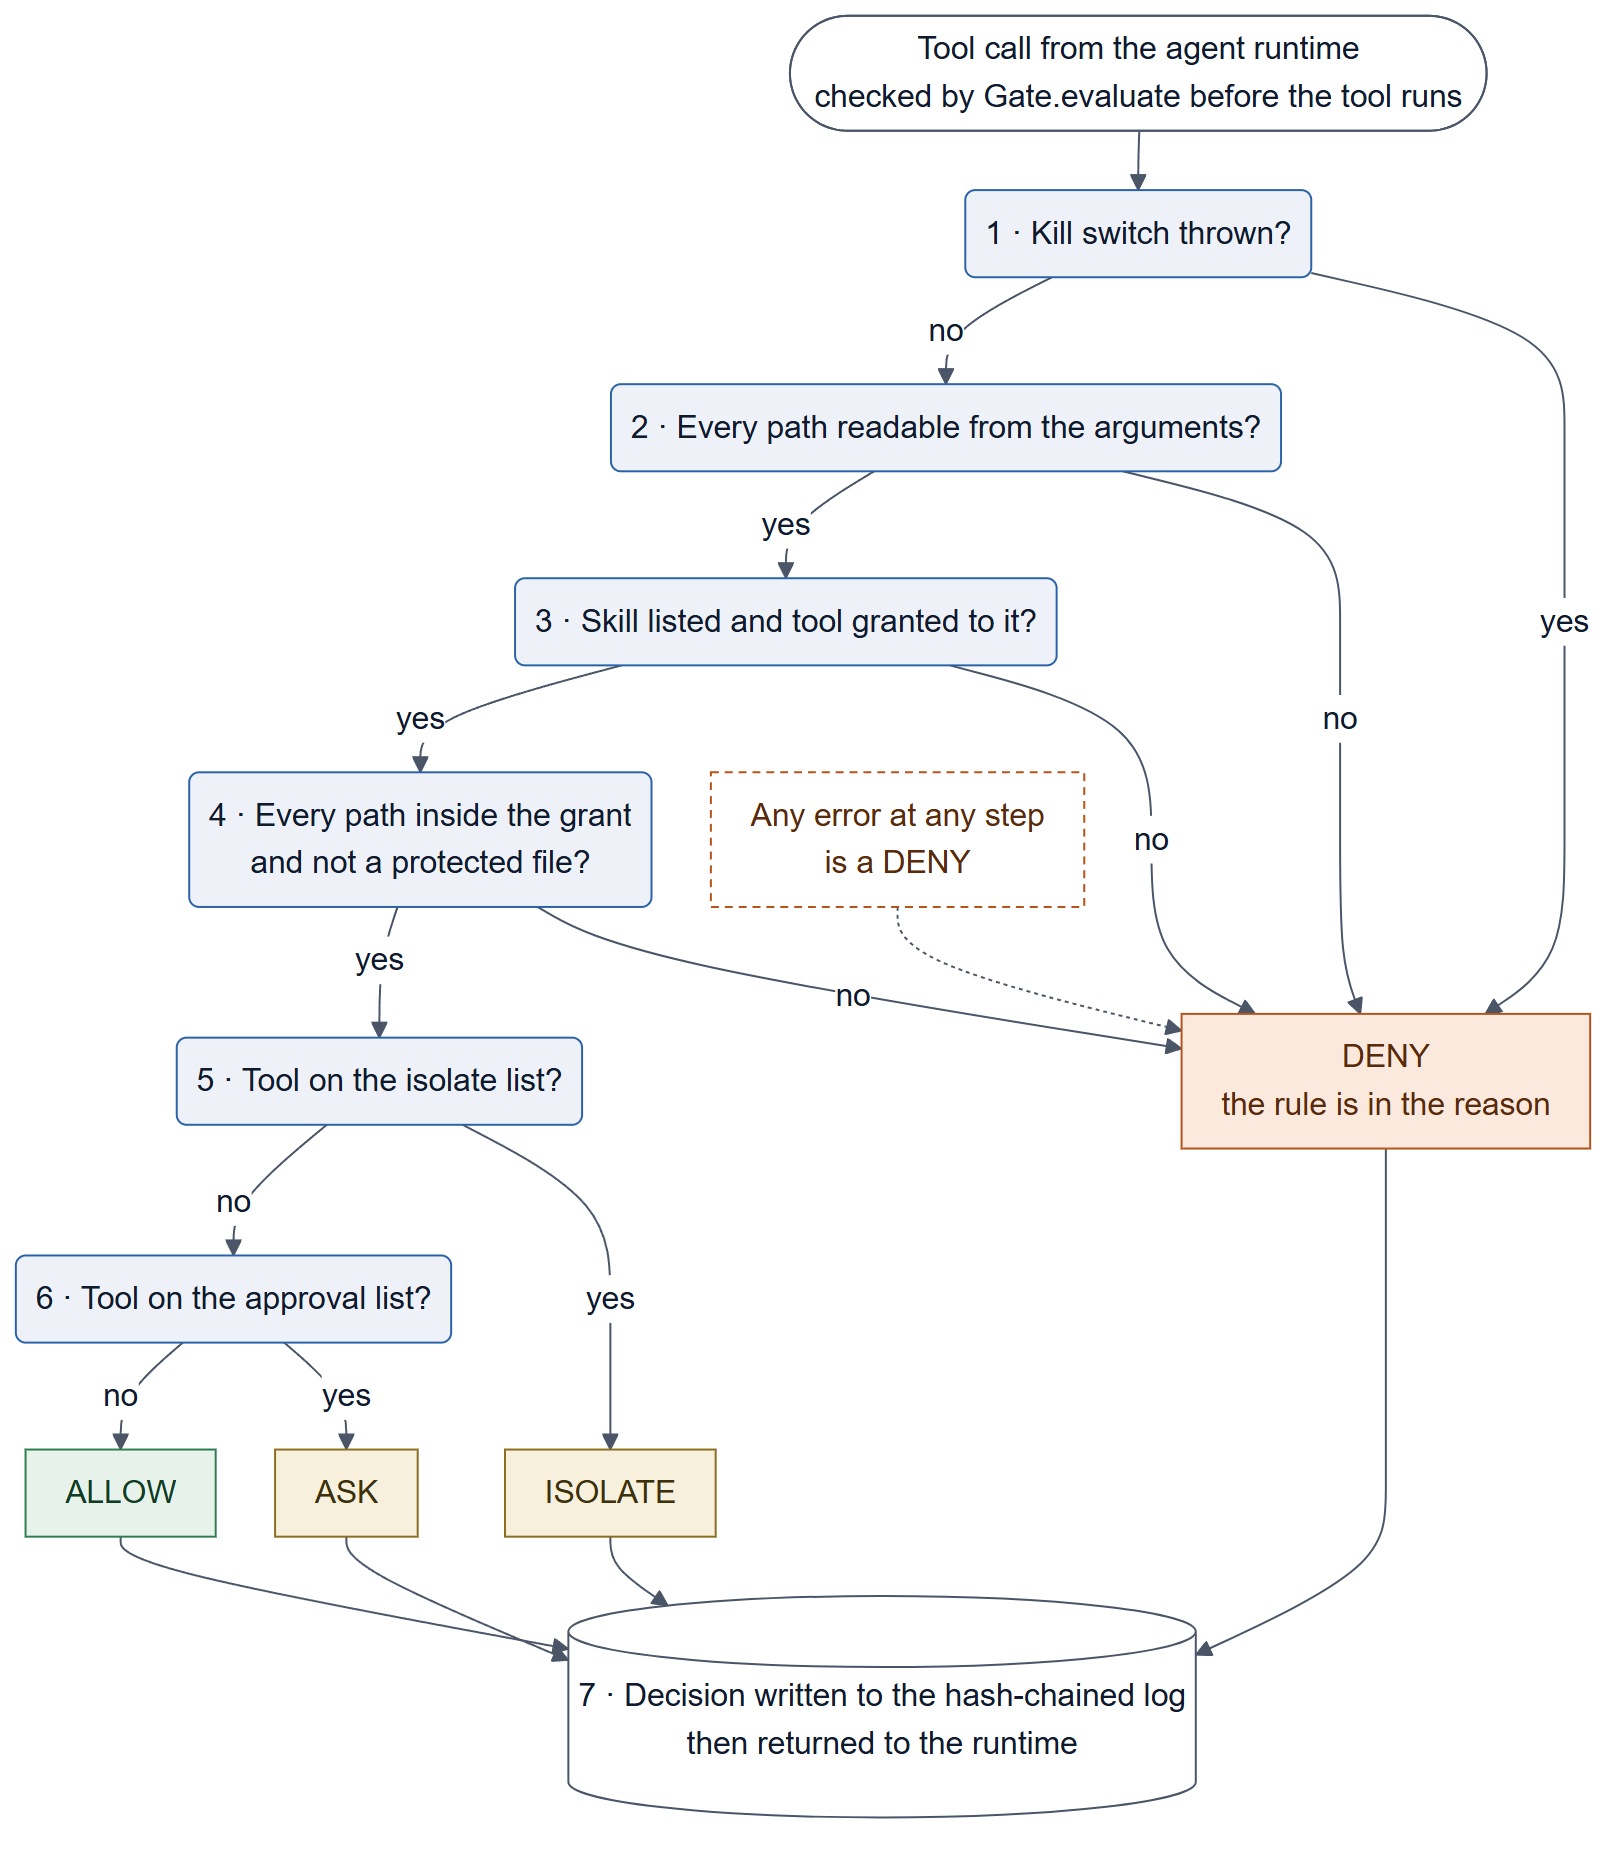
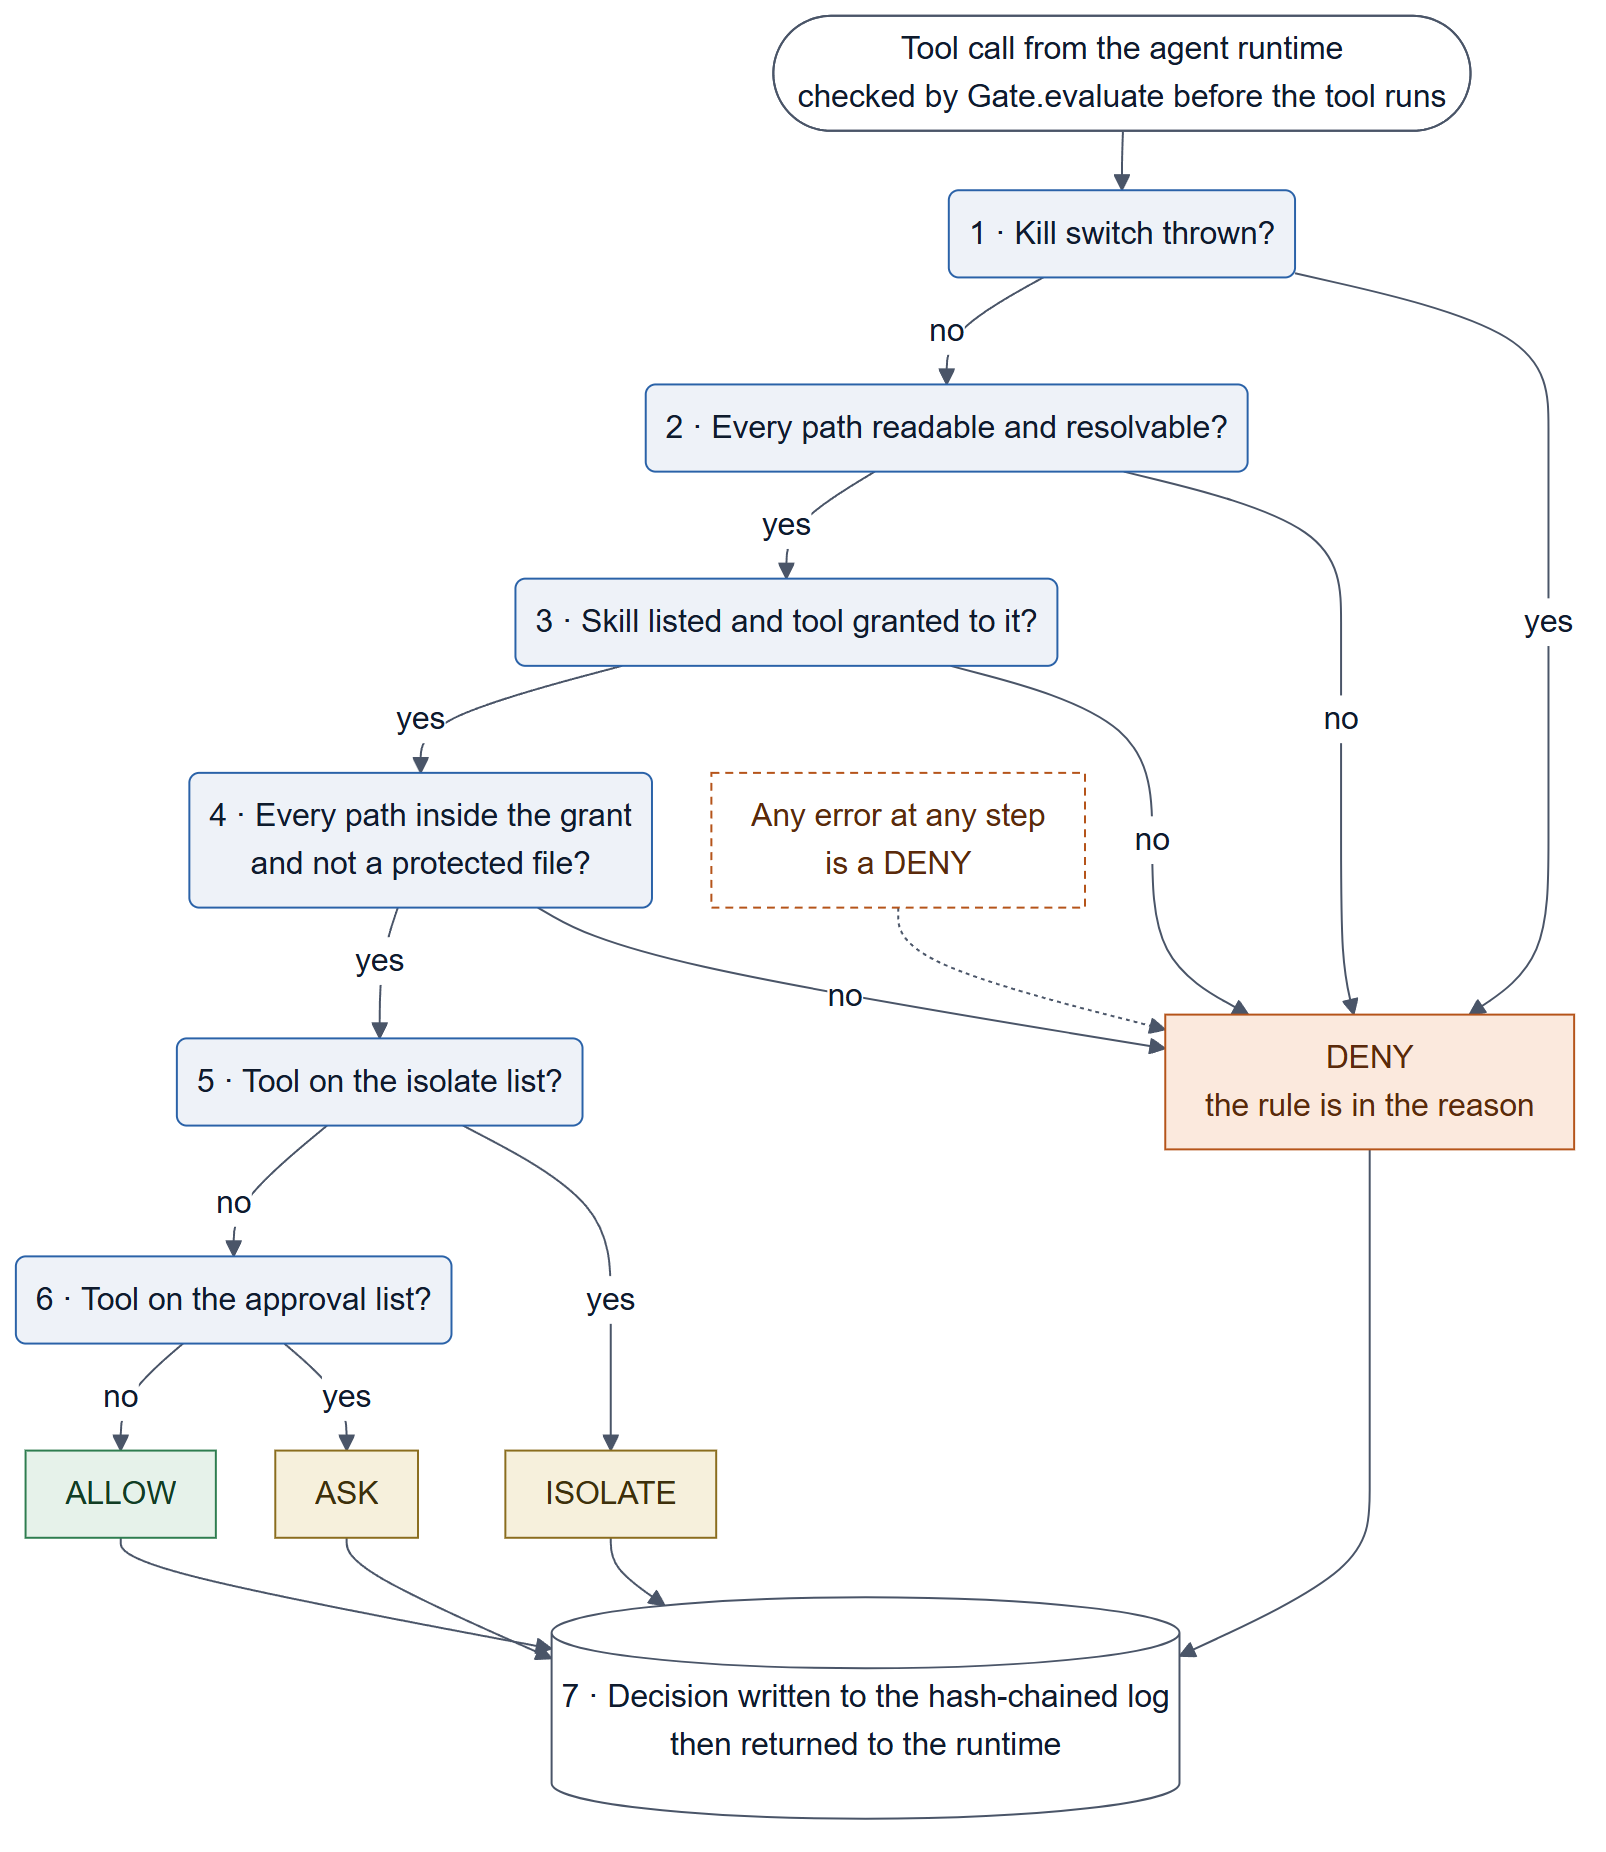
README: act on the diagram review
Independent review of 2b202e4 returned two blockers and nine nits.

Blockers:
- Figure 2 was 2368 px wide with 15 px capitals, unreadable at README
  width. It is redrawn top to bottom at the same scale as Figure 1.
- Figure 2 said ISOLATE "runs in a fresh microVM". It now says the task
  goes to isolation-layer, a research build whose stub door CI runs.

Also:
- Figure 2 shows ASK waiting for a person, and splits step 5 into 5a/5b.
- Figure 1 step 2 reads "readable and resolvable", since a relative path
  with no base folder is denied there.
- Each figure has a title, a takeaway and a key. The caption names three
  details Figure 1 leaves out: step 1 also guards the marker and the log,
  a lost log folder is a deny with no row, and the optional grant ledger.
- The README names the 34 go-red mutants, the CI recheck of the Proof
  counts, the observe to enforce move with the S12 numbers, and the grant
  ledger with its stated limit.
- tests/test_gate_boundary.py docstring no longer says the test stays red.

diff --git a/tests/test_gate_boundary.py b/tests/test_gate_boundary.py
@@ -3,10 +3,11 @@
 # box-side nonce (A6).
 """One call, three bindings: atoms records the gate decision, the box echoes atoms' ticket.
 
-test_siblings_pinned owns every presence and load check. The boundary test stays
-red until the three named misses clear; fixture problems fail with "fixture:"
-text instead. Clearing the misses in CI is a receipt contract, not a jailer
-proof: Actions cannot boot the box, so the real run is attached from the test box.
+test_siblings_pinned owns every presence and load check. The three named misses
+cleared at Step 8, and the boundary test now fails on any miss; fixture problems
+fail with "fixture:" text instead. Passing in CI is a receipt contract, not a
+jailer proof: Actions cannot boot the box, so the real run is attached from the
+test box.
 The chain helper below stands in for the harness until the harness exists.
 """
 

diff --git a/README.md b/README.md
@@ -19,16 +19,28 @@ written allowlist of tools and paths per skill. The decision is plain Python
 you can read, not a model, and it is written to a hash-chained log before the
 answer goes back.
 
+**Figure 1. How the gate decides one call.** Six checks in a fixed order, a
+deny at any failed check, and every verdict logged before the answer leaves.
+
 ![Gate decision path: six checks in order, each failure a DENY, every verdict logged][fig-decide]
 
-Read it top to bottom. The gate asks six questions in a fixed order and stops
-at the earliest answer that settles the call: a failed check is a deny, the
-isolate list gives isolate, and the approval list gives ask. A call that clears
-every check is allowed. Any error inside the gate is a deny. Every verdict is written to the
-hash-chained log before it goes back to the runtime. In enforce mode the
-runtime acts on the verdict. In observe mode the gate records the same verdict
-and blocks nothing, so a policy can be tuned on real traffic before it is
-enforced.
+Read it top to bottom. The gate stops at the earliest answer that settles the
+call: a failed check is a deny, the isolate list gives isolate, and the
+approval list gives ask. A call that clears every check is allowed. Any error
+inside the gate is a deny. In enforce mode the runtime acts on the verdict. In
+observe mode the gate records the same verdict and blocks nothing, so a policy
+can be tuned on real traffic before it is enforced.
+
+Key: blue is a check, orange is deny, green is allow, tan is ask or isolate.
+
+Three details the figure leaves out:
+
+- Step 1 also denies a call that aims at the kill switch marker or the log.
+- One deny carries no log row, on purpose: when the log folder itself is gone,
+  the gate denies rather than start a new chain quietly.
+- The figure shows the gate without the optional grant ledger. With it, a
+  ticket check runs before step 3, a bound approval receipt can turn an ask
+  into an allow, and a usage cap can turn an allow into a deny.
 
 [fig-decide]: assets/gate-decision.png
 
@@ -61,6 +73,13 @@ RESULT: PASS
 ```
 
 The run checks 19 expected outcomes and exits non-zero if any one fails.
+
+The tests test something. Each control the demo asserts has a mutant that
+removes it in a scratch copy and must turn its test red: `make hire-pins` runs
+all 34 in `demos/hire/mutants.yaml`. CI reruns the nine seeded scenarios on
+every push to main and every pull request, and fails if any count in the
+[Proof](#proof) section changes.
+
 What each step shows:
 
 | Step | What happens |
@@ -86,17 +105,23 @@ See [demos/hire/DEMO.md](demos/hire/DEMO.md) for the limits of the demo.
 
 ## How it fits with the other repos
 
-capability-gate is one of three public repos that work as one system:
+capability-gate is one of three public repos that work as one system.
+
+**Figure 2. Where the gate sits.** People set the policy, the gate decides
+before anything runs, and the decision log feeds the review that sets the next
+policy.
 
 ![Where capability-gate sits between the agent, aegis-atoms and isolation-layer][fig-system]
 
-Read it left to right. The gate is step 3: it decides before anything runs.
-aegis-atoms reads that decision and may make it stricter, never looser. An
-ALLOW runs on the host. An ISOLATE runs in an isolation-layer microVM, which
+Read it top to bottom. The gate is step 3. aegis-atoms reads that decision and
+may make it stricter, never looser. An allow runs on the host, an ask waits
+for a person, and a deny is blocked. An isolate goes to isolation-layer, which
 takes the task when it carries the gate's decision and the atoms ticket. The
-decision log feeds the audit and the grant-gap report, and people decide what
-to grant next. CI tests these handoffs against pinned copies of the three
-repos; it checks the receipts, not a microVM boot.
+decision log feeds the audit and the grant-gap report. People grant what was
+needed, keep the rest denied, and move from observe to enforce: scenario S12
+shows both modes flag the same 10 of 110 calls. CI tests these handoffs
+against pinned copies of the three repos; it checks the receipts, not a
+microVM boot, and isolation-layer is a research build.
 
 [fig-system]: assets/gate-in-system.png
 
@@ -140,6 +165,11 @@ runtimes and checks its output.
   `verify_hash_chain(log)` raises on an edit, a deleted row or a cut tail, and
   the gate refuses to append to a log that does not verify. A signed checkpoint
   over the log can be configured (`tests/test_c4_checkpoint.py`).
+- **Grants (optional).** `capability_gate_grants.py` adds per-call tickets
+  bound to one session, a ledger that caps calls up the lineage so a child
+  never spends more than its parent has left, and renewal that needs a receipt
+  from a named person who is not the agent. These are local HMAC tokens with
+  file stores, not an identity provider.
 - **Adapters.** `__init__.py` and `plugin.yaml` register the gate on the Hermes
   `pre_tool_call` hook. `adapters/claude_code_hook.py` runs the same decider as
   a Claude Code `PreToolUse` hook: it exits 2 to block, and every failure

diff --git a/CHANGELOG.md b/CHANGELOG.md
@@ -9,7 +9,8 @@ and this project adheres to [Semantic Versioning](https://semver.org/spec/v2.0.0
 
 ### Changed
 
-- README diagrams are drawn images with their Mermaid sources beside them, so they show in every viewer, the GitHub app included. `assets/gate-decision.png` walks the gate's checks in the order `Gate.evaluate` and `_decide` run them. `assets/gate-in-system.png` places the gate in the full flow: people, agent, capability-gate, aegis-atoms, host or isolation-layer, and oversight.
+- README diagrams are drawn images with their Mermaid sources beside them, so they show in every viewer, the GitHub app included. `assets/gate-decision.png` walks the gate's checks in the order `Gate.evaluate` and `_decide` run them. `assets/gate-in-system.png` places the gate in the full flow: people, agent, capability-gate, aegis-atoms, host or isolation-layer, and oversight. Each figure has a title, a takeaway and a key. Figure 2 marks isolation-layer as a research build whose stub door CI runs, and shows ASK waiting for a person. The README now names the go-red mutants (34 in `demos/hire/mutants.yaml`), the CI recheck of the Proof counts, the optional grant ledger with its stated limit, and three decision details Figure 1 leaves out.
+- `tests/test_gate_boundary.py` docstring: the three named misses cleared at Step 8 and the test fails on any miss. It said the test stayed red.
 - README shows the OpenSSF bestpractices.dev badge for project 16124, which reached the passing level on 2026-10-31.
 
 - Grant clock fails closed (I4, T-DEC-12). A gate clock that steps back below the grant store's high-water mark by more than `GrantConfig.clock_backward_slack` (placeholder 0, uncalibrated) refuses every grant with "clock moved backward; grants refused until reviewed", at admission and again under the ledger lock before the charge. The refusal is a logged DENY row. A clock reading or stored high-water mark that is not a finite number (NaN, inf, not a number) is refused the same way, and `GrantConfig` refuses a slack that is NaN, infinite or negative, since either would skip the step-back test. Before this, a rollback was clamped, so an expired grant stayed dead but a grant still live at the high-water mark kept working and nothing was logged. `tests/test_decay_slice1.py`.
